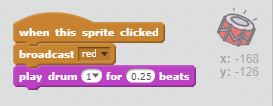
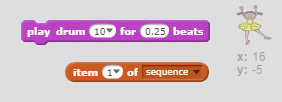
Update step 5

diff --git a/en/step_5.md b/en/step_5.md
@@ -15,27 +15,7 @@ Let's add four buttons for the player to press to repeat the sequence they've re
 
 + Add similar code to the blue, green and yellow drums to make them broadcast messages in their own colour
 
-+ Add some code to each sprite so that a different drum beat also plays when each sprite is clicked.
-
---- hints ---
---- hint ---
-Can you use the numbers that correspond to each colour to play the correct drum beat?
-+ 1 = red
-+ 2 = blue
-+ 3 = green
-+ 4 = yellow
---- /hint ---
---- hint ---
-You will need to add the `play drum`{:class="blocksound"} block to happen when the sprite is clicked.
---- /hint ---
---- hint ---
-Here is the code you will need for the red drum which has drum beat 1:
-
-![Play drum](images/hint-play-drum.png)
---- /hint ---
---- /hints ---
-
-+ When your character receives the message "red", they should check whether the number 1 is at the start of the list (which means that red is the next colour in the sequence). If it is, remove the number from the list, as it's been guessed correctly. Otherwise it's game over!
++ When your character receives the message "red", the code should check whether the number 1 is at the start of the list (which means that red is the next colour in the sequence). If it is, remove the number from the list, as it's been guessed correctly. Otherwise it's game over!
 
 ```blocks
 	when I receive [red v]
@@ -46,6 +26,26 @@ Here is the code you will need for the red drum which has drum beat 1:
 		stop [all v]
 	end
 ```
+
++ Add a block to the character sprite so that a drum beat also plays when the correct colour is received.
+
+--- hints ---
+--- hint ---
+Can you use the numbers that correspond to each colour to play the correct drum beat?
++ 1 = red
++ 2 = blue
++ 3 = green
++ 4 = yellow
+--- /hint ---
+--- hint ---
+You will need to add the `play drum`{:class="blocksound"} block to play the 1st sound in the sequence list before you delete it.
+--- /hint ---
+--- hint ---
+Here is the code you will need for the red drum which has drum beat 1:
+
+![Play drum](images/hint-play-drum.png)
+--- /hint ---
+--- /hints ---
 
 + Add some more code to your character sprite to make it respond correctly when the blue, green or yellow button is pressed.
 
@@ -63,6 +63,7 @@ Here is how your code should look for the blue broadcast. Can you work out what 
 ```blocks
 	when I receive [blue v]
 	if <(item (1 v) of [sequence v])=[2]> then
+        play drum (item (last v) of [sequence v]) for (0.25) beats
 		delete (1 v) of [sequence v]
 	else
 		say [Game over!] for (1) secs

diff --git a/en/step_8.md b/en/step_8.md
@@ -6,7 +6,4 @@ Do you notice any other code that is the same for all 4 buttons?
 
 Can you make another custom block, that is used by each button?
 
-
-
-
 --- /challenge ---
